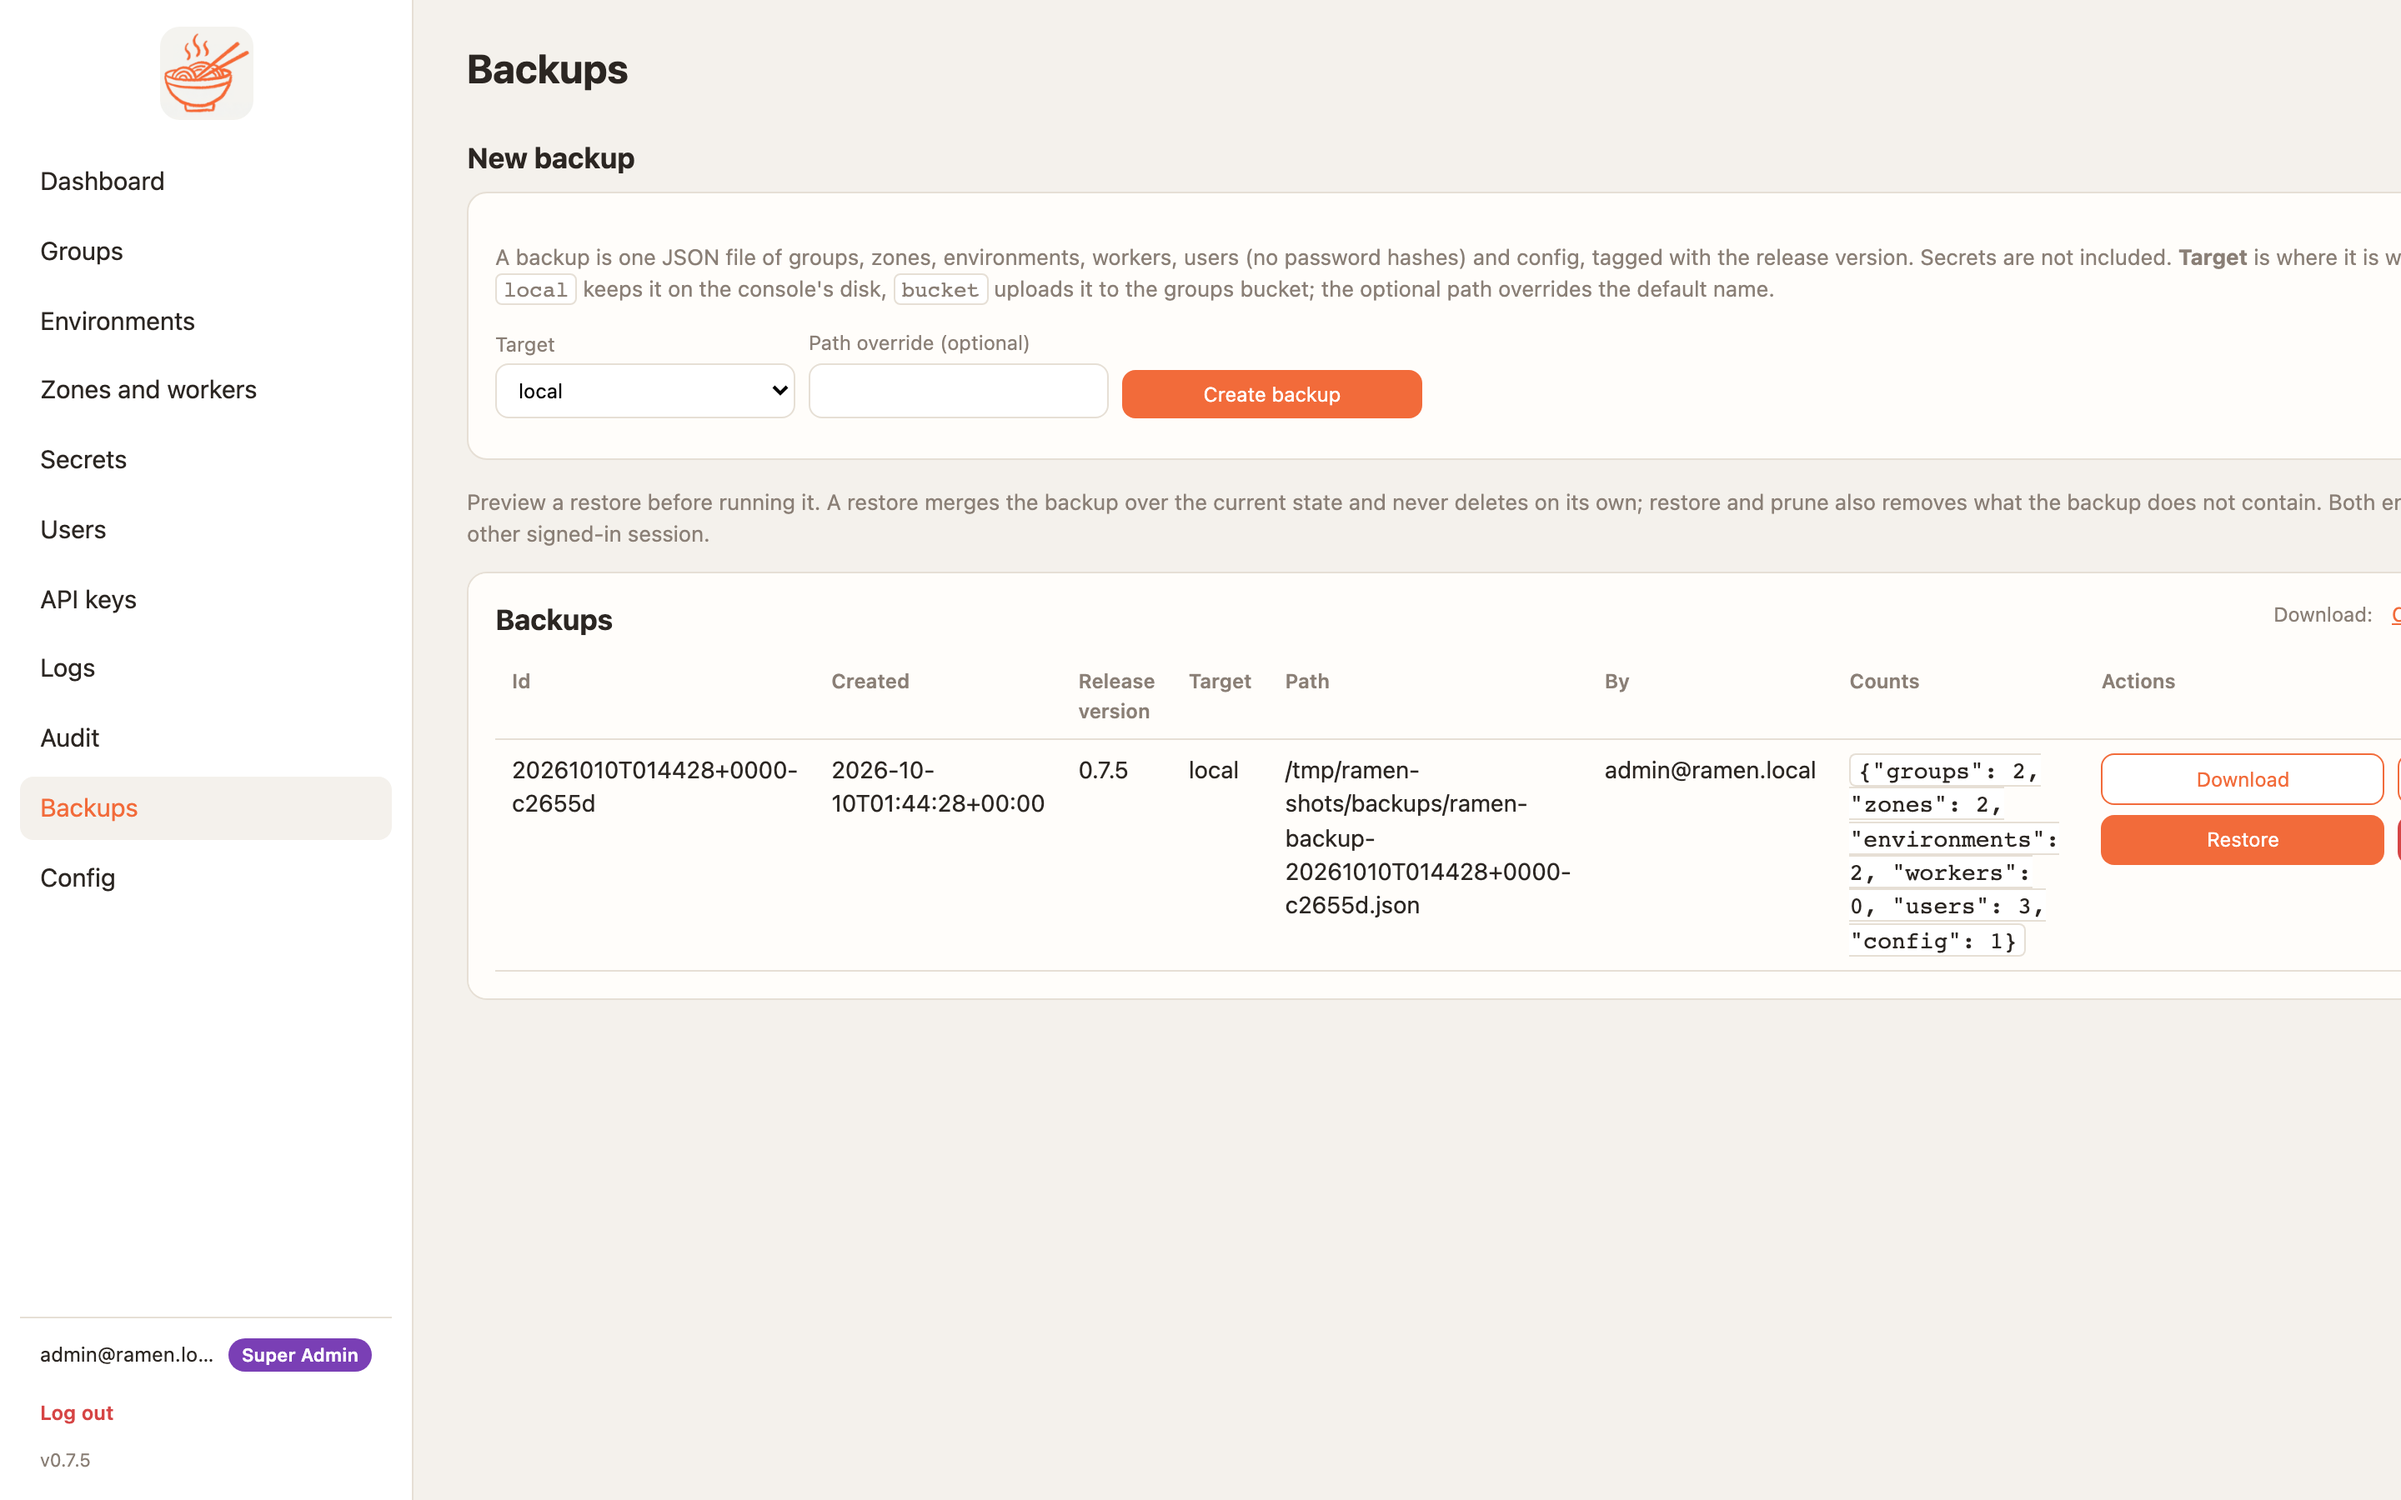
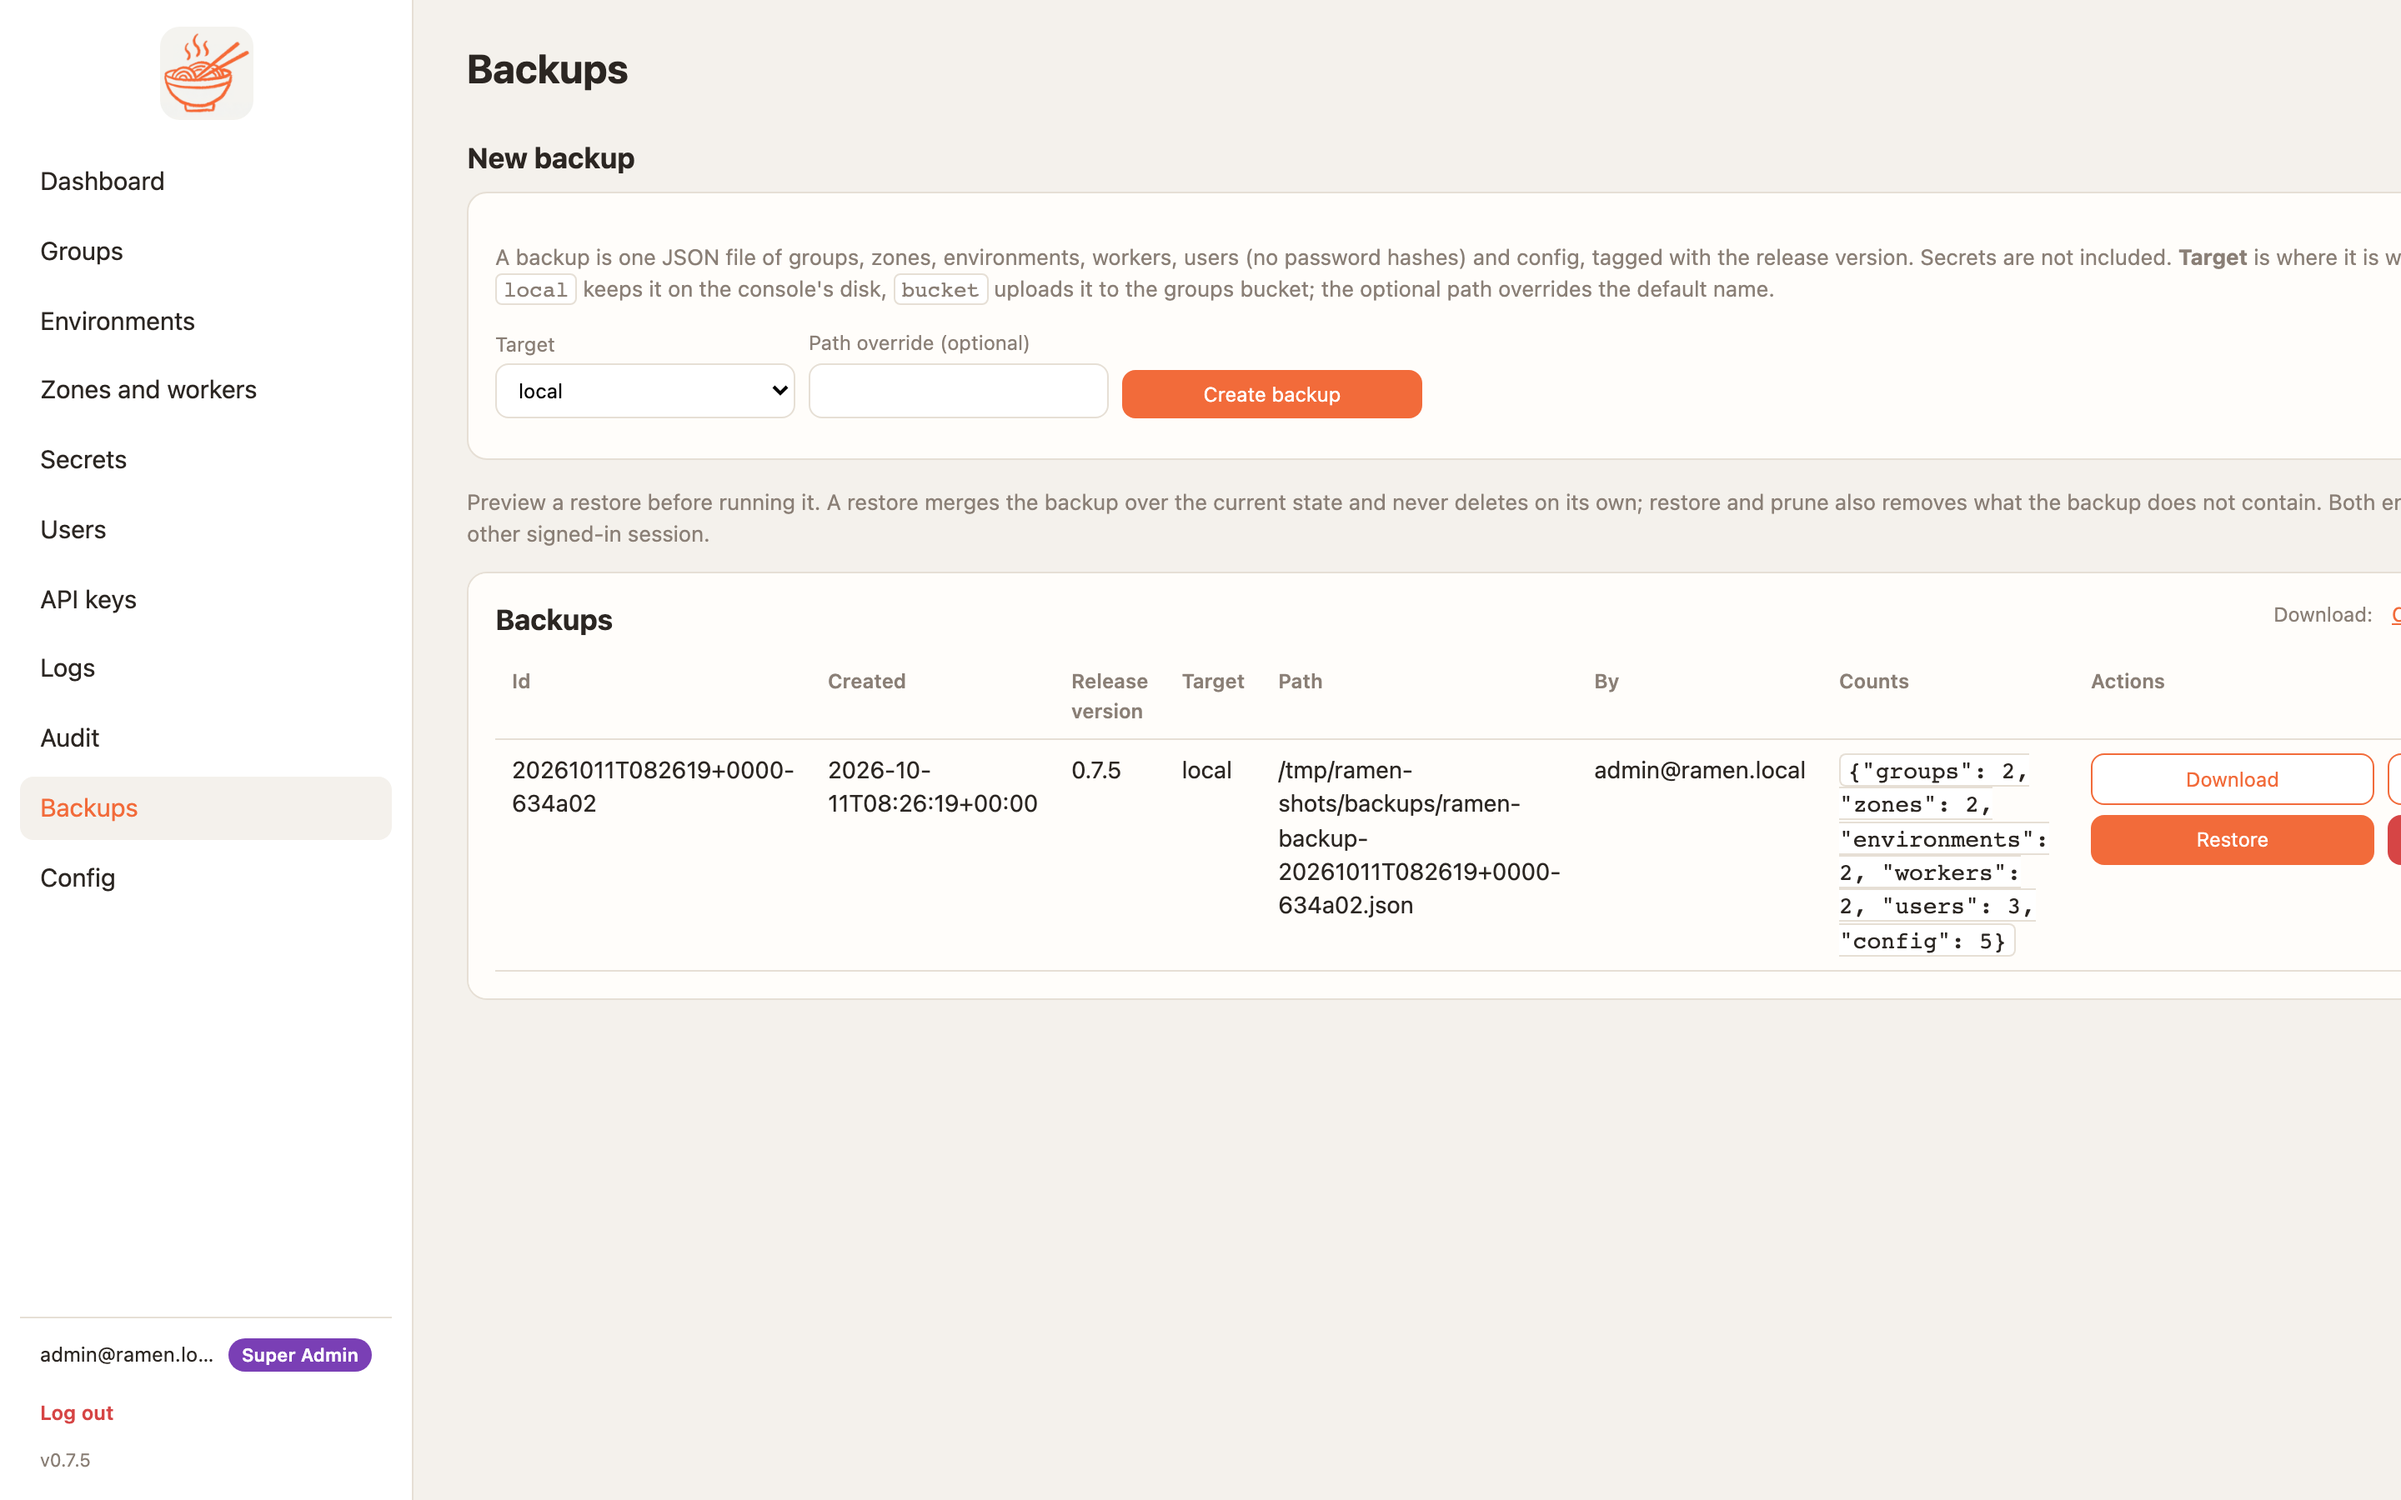
shots 0.7.5: recapture every seeded page; new zones, config-roles, config-identity, group-autoscale and group-signin shots (seeded custom role, Entra-shaped provider with rules, max per zone, one rebalance); diagram labels for AKS, Python 3.12, az://, autoscaling

diff --git a/scripts/shots.py b/scripts/shots.py
@@ -27,7 +27,7 @@ PORT = int(os.environ.get("RAMEN_SHOTS_PORT", "18100"))
 BASE = f"http://127.0.0.1:{PORT}"
 EMAIL, PASSWORD = "admin@ramen.local", "Shots-Console-1!"
 
-# file -> (path, what the page is, full page or viewport)
+# file -> (path, what the page is, full page (True), viewport (False) or a CSS selector: just that part of the page)
 PAGES = {
     "login.png": ("/login", "Sign-in page", False),
     "dashboard.png": ("/", "Dashboard: load per zone and group", False),
@@ -44,6 +44,28 @@ PAGES = {
         "/config",
         "Config: the public address (base URI), authentication, the permission catalogue, service-account rules",
         True,
+    ),
+    "zones.png": ("/zones", "Zones and workers: this cloud's zones, the workers per group with their max", True),
+    # 0.7.5: the parts of a page the identity, roles and autoscaling docs point at
+    "config-roles.png": (
+        "/config",
+        "Config: custom roles (name, base, OAuth only)",
+        ".card:has(> h2:text-is('Roles'))",
+    ),
+    "config-identity.png": (
+        "/config",
+        "Config: identity providers with the group source, and the role mapping",
+        ".card:has(> h2:has-text('Identity providers'))",
+    ),
+    "group-autoscale.png": (
+        "/groups/demo",
+        "Group page: zone actions with count, max (autoscale up to) and the last autoscale decision",
+        "h2:text-is('Zone actions') + .card",
+    ),
+    "group-signin.png": (  # a one-zone group: two zones double every box
+        "/groups/analytics",
+        "Group page: How MCP users sign in, generated for this install (group key, accounts, Entra ID)",
+        ".signin-guide",
     ),
     # §17.2: the two moments the end-to-end guide needs that a plain page load does not show
     "key-shown.png": ("/api-keys", "The one-time display of a new agent key", False),
@@ -67,7 +89,7 @@ def workers():
     cold = FakeWorker(admin_key="shots", mcp_keys=None).start()
     hot = FakeWorker(admin_key="shots", mcp_keys=None).start()
     cold.metrics = {"inflight": 1, "total": 128, "errors": 0, "load": "low"}
-    hot.metrics = {"inflight": 6, "total": 412, "errors": 1, "load": "even"}
+    hot.metrics = {"inflight": 28, "total": 412, "errors": 1, "load": "high", "max_inflight": 32}
     for w in (cold, hot):
         w.load_result = {
             "tools": [{"name": "demo_calculator_tool", "inputSchema": {"type": "object"}}],
@@ -147,6 +169,33 @@ def seed(client, repo: str | None = None) -> dict:
         json={"tag": "us-central1-docker.pkg.dev/ramen/ramen/worker:demo-3", "note": "pandas 2.3"},
         headers=h(),
     )
+    # 0.7.5: a custom role, an Entra-shaped provider (fictional tenant, never contacted) with the groups lookup and
+    # two rules, a max per zone and one rebalance, so the autoscale controls show a decision
+    client.put(
+        "/api/v1/config/roles/analyst", json={"base": "viewer", "label": "Analyst", "oauth_only": True}, headers=h()
+    )
+    tenant = "00000000-0000-0000-0000-000000000000"
+    client.put(
+        "/api/v1/config/oauth-providers/entra",
+        json={
+            "issuer": f"https://login.microsoftonline.com/{tenant}/v2.0",
+            "client_id": "11111111-2222-3333-4444-555555555555",
+            "client_secret": "not-a-real-secret",
+            "groups_source": "lookup",
+        },
+        headers=h(),
+    )
+    rmap = "/api/v1/config/auth/role-map/entra"
+    client.put(rmap, json={"claim": "groups"}, headers=h())
+    for value, role, groups in (
+        ("6f1c0d2e-0000-4000-8000-00000000a001", "group_admin", ["demo"]),
+        ("6f1c0d2e-0000-4000-8000-00000000a002", "analyst", ["demo", "analytics"]),
+    ):
+        client.put(rmap, json={"value": value, "role": role, "groups": groups}, headers=h())
+    for zone in ("a", "b"):
+        client.put(f"/api/v1/groups/demo/zones/{zone}/workers", json={"max_count": 3}, headers=h())
+    client.put("/api/v1/config/scheduler", json={"enabled": True, "interval_seconds": 60}, headers=h())
+    client.post("/api/v1/groups/demo/zones/b/rebalance", headers=h())
     client.put("/api/v1/config/sa-rules", json={"rules": [{"effect": "deny", "permission": "kms.*"}]}, headers=h())
     client.post("/api/v1/backups", json={"target": "local"}, headers=h())
     client.post("/api/v1/groups/demo/environments/prod/deploy", json={"canary": True}, headers=h())
@@ -277,7 +326,13 @@ def capture(
                 except Exception:  # noqa: BLE001 - say what the API answered instead of a blank picture
                     print(f"key-shown: no one-time display; api replies {replies}", file=sys.stderr)
                 page.wait_for_timeout(300)
-            page.screenshot(path=str(out / name), full_page=full)
+            if name == "group-signin.png":  # the Entra section closed by default; open it next to the group key
+                page.evaluate("document.querySelectorAll('.signin-guide details').forEach((d, i) => d.open = i != 1)")
+                page.wait_for_timeout(200)
+            if isinstance(full, str):
+                page.locator(full).first.screenshot(path=str(out / name))
+            else:
+                page.screenshot(path=str(out / name), full_page=full)
             taken.append(name)
             print(f"captured {name} <- {path}")
         browser.close()
